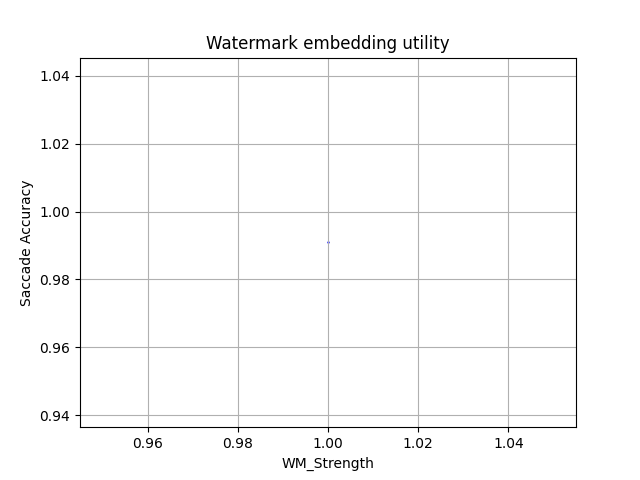
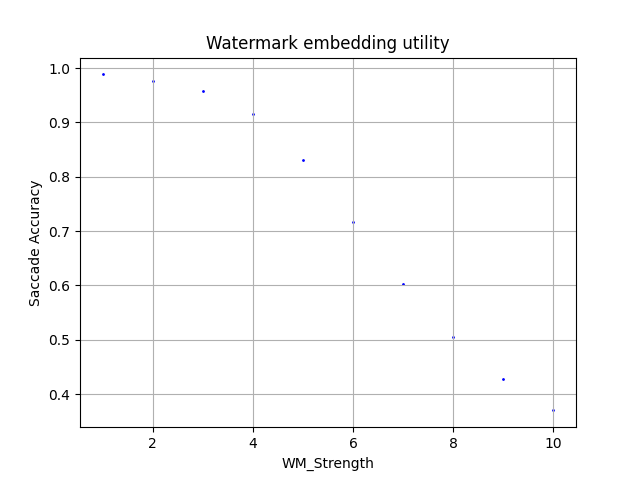
saccade accuracy analysis with plot

diff --git a/Processing/Analyze.py b/Processing/Analyze.py
@@ -9,19 +9,12 @@ def measure_saccade_accuracy(true_data, predicted_data):
         raise ValueError("Length of true data and predicted data must be the same")
 
     # Extract saccade labels from true and predicted data
-    true_saccades = [point for point in true_data if point[3] == 2]
-    predicted_saccades = [point for point in predicted_data if point[3] == 2]
-    #print("Truth: " + str(len(true_saccades)))
-    #print("Predicted: " + str(len(predicted_saccades)))
+    true_saccades = {(point[0], point[3]) for point in true_data if point[3] == 2}
+    predicted_saccades = {(point[0], point[3]) for point in predicted_data if point[3] == 2}
 
     # Calculate intersection of true and predicted saccades
-    true_positives = 0
-    for point in predicted_saccades:
-        for true_point in true_saccades:
-            if (point[0] == true_point[0]) & (point[3] == true_point[3]):
-                true_positives += 1
-                break
-    print("True positives: " + str(true_positives))
+    true_positives = len(true_saccades.intersection(predicted_saccades))
+
     # Calculate precision and recall
     precision = true_positives / len(predicted_saccades) if predicted_saccades else 0
     recall = true_positives / len(true_saccades) if true_saccades else 0

diff --git a/Processing/NewRun.py b/Processing/NewRun.py
@@ -88,9 +88,9 @@ def plot_comparison(first_file, second_file, strength):
 
 def plot_results(filename):
     data = csvu.extract_results2(filename)
-    data_x,data_y = list(zip(*data))
+    data_x,data_y,visualDegrees,rms = list(zip(*data))
     plt.figure()
-    plt.scatter(data_x, data_y, color='blue', s= 0.5)
+    plt.scatter(data_x, data_y, color='blue', s= 1)
     plt.xlabel('WM_Strength')
     plt.ylabel('Saccade Accuracy')
     plt.grid(True)
@@ -117,8 +117,8 @@ def main():
     process_pipeline(args, filename)
 
 if __name__ == "__main__":
-    #plot_results('Results/SaccadeAccuracies.csv')
-    main()
+    plot_results('Results/SaccadeAccuracies.csv')
+    #main()
 
 
 

diff --git a/Processing/Filtering/CSVUtility.py b/Processing/Filtering/CSVUtility.py
@@ -113,11 +113,15 @@ def extract_results2(csv_file_path):
     df = pd.read_csv(csv_file_path)
     strengths = df['S']
     saccadeAccuracies = df['SA']
+    visualDegrees = df['VD']
+    rms = df['RMS']
     extracted_data = pd.DataFrame({
             'S': strengths,
             'SA': saccadeAccuracies,
+            'VD': visualDegrees,
+            'RMS': rms,
             })
-    return extracted_data.apply(lambda row: (row['S'], row['SA']), axis=1)
+    return extracted_data.apply(lambda row: (row['S'], row['SA'], row['VD'], row['RMS']), axis=1)
 
 def extract_results(csv_file_path):
     print(csv_file_path)
